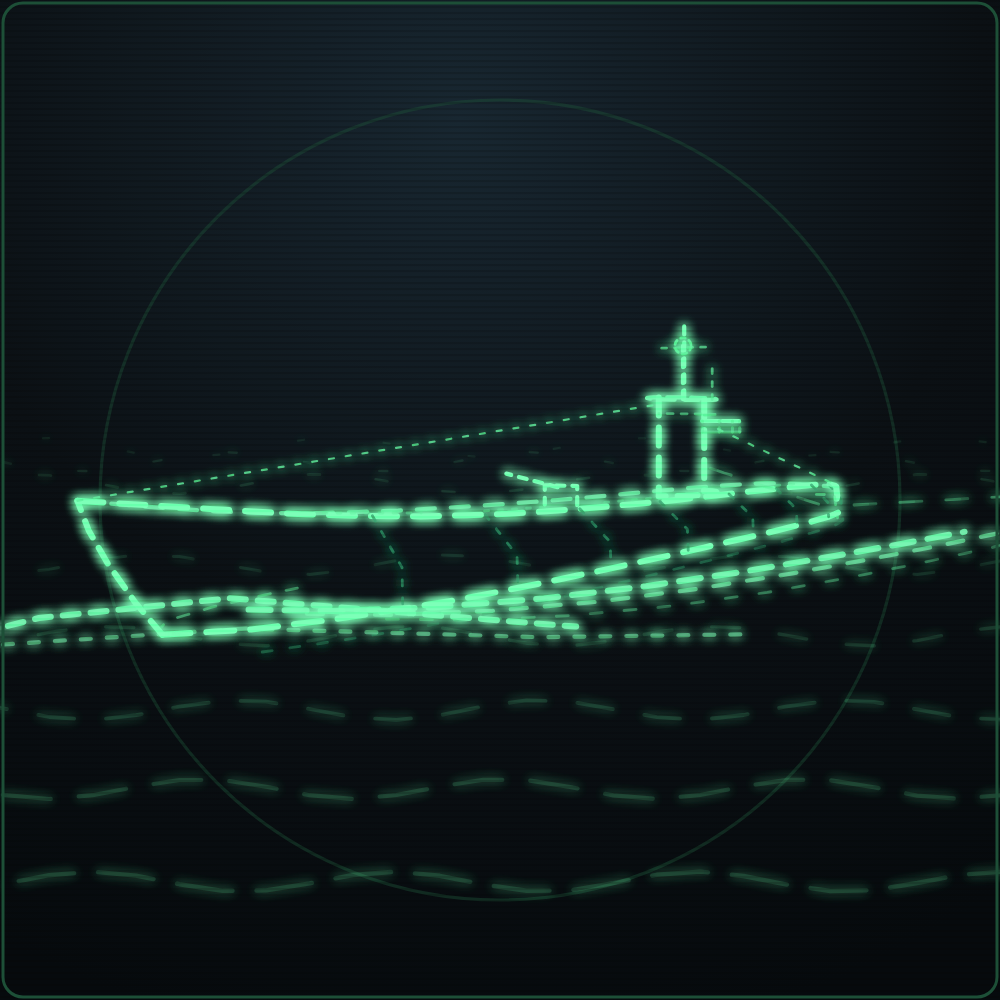
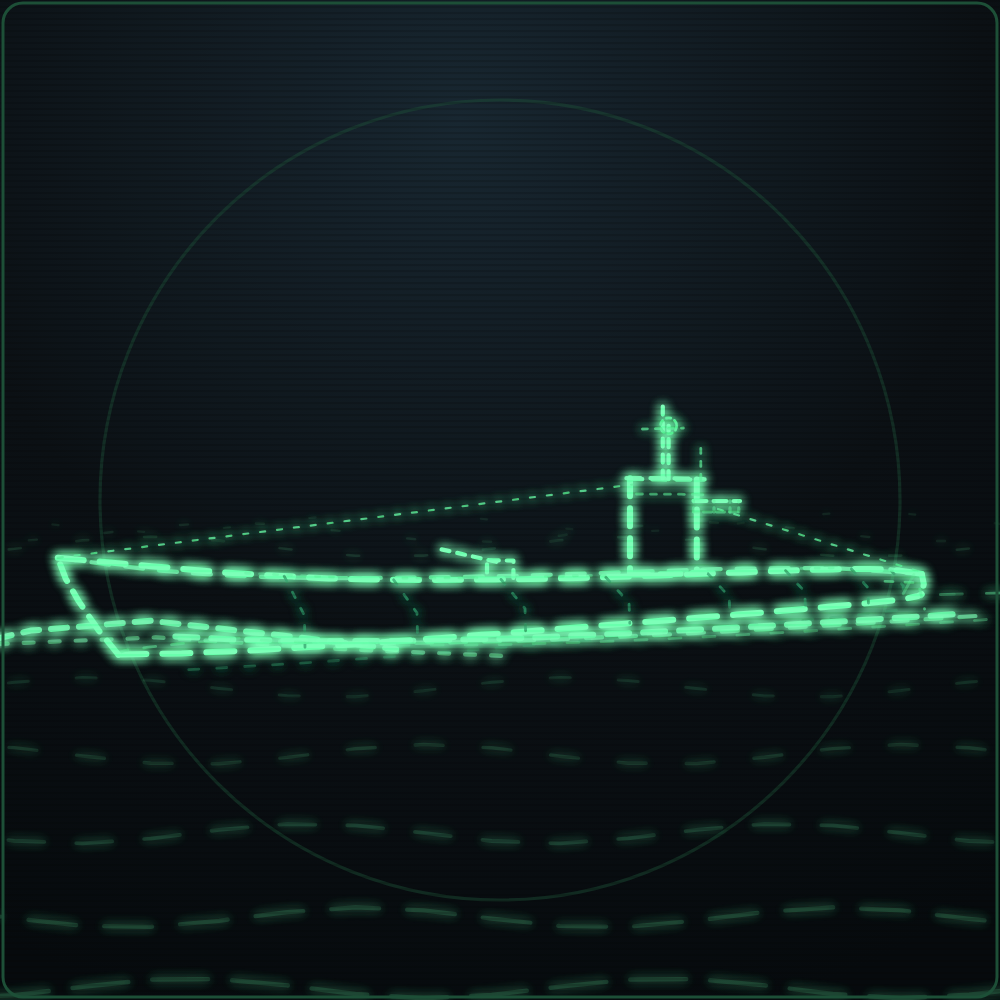
Markenbild: laengeres Achterschiff
Kurswinkel von 25 auf 34 Grad, Brennweite von 700 auf 1100 bei groesserem
Abstand. Damit liegen 31 Prozent der sichtbaren Laenge hinter dem Turm
statt 12 - vorher wirkte die Silhouette aus der Entfernung wie ein Frachter.

diff --git a/_uboot3d.py b/_uboot3d.py
@@ -36,9 +36,9 @@ import sys
 PRESET = sys.argv[1] if len(sys.argv) > 1 else 'tele'
 if PRESET == 'quadrat':      # Markenbild 500x500
     W, H = 500, 500
-    CX, CY, F, EYE, PHI, BX, BY = 285.0, 215.0, 700.0, 5.0, math.radians(25), -10.5, 33.0
+    CX, CY, F, EYE, PHI, BX, BY = 280.0, 255.0, 1100.0, 5.0, math.radians(34), -16.0, 75.0
     RING = (250, 250, 200)
-    SEA_F, SEA_N = (400, 220, 130), (52, 34, 25, 19.5, 15.5)
+    SEA_F, SEA_N = (900, 500, 300), (62, 45, 34, 27, 23)
 elif PRESET == 'tele':       # Teleperspektive
     W, H = 960, 420
     CX, CY, F, EYE, PHI, BX, BY = 452.0, 176.0, 3000.0, 5.0, math.radians(32), -14.4, 130.0
